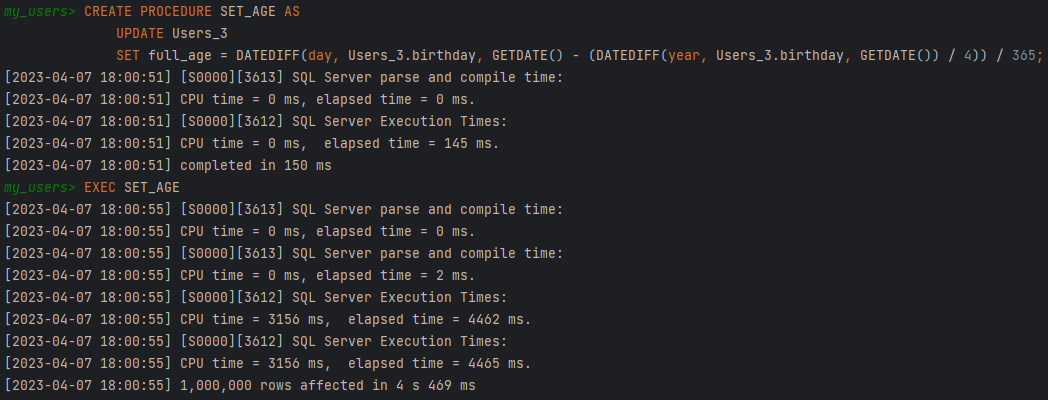
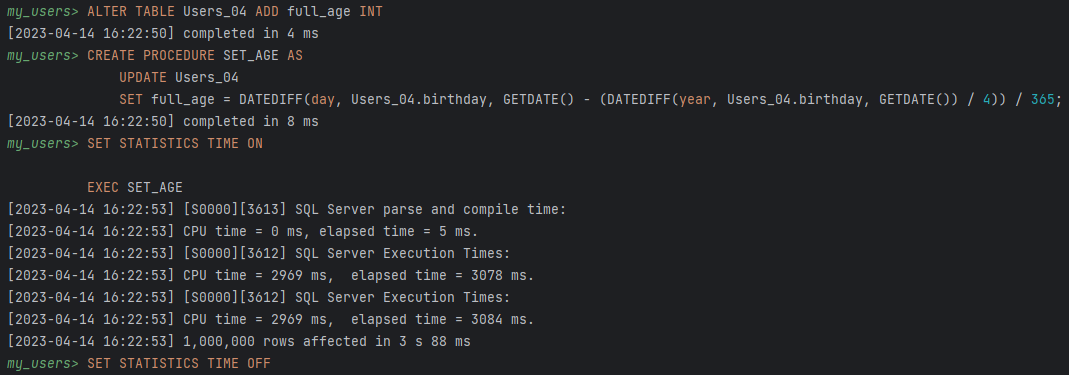
2 done

Changed region(s): [[0.0, 0.0, 1.0, 0.9973]]

diff --git a/README.md b/README.md
@@ -101,6 +101,7 @@ UPDATE Users_02
 SET Users_02.full_age = DATEDIFF(day, Users_02.birthday, GETDATE() - (DATEDIFF(year, Users_02.birthday, GETDATE()) / 4)) / 365;
 GO
 ```
+![Update full age](/img/2.1_update_time.png)
 
 ### Пункт б) Trigger
 ```SQL
@@ -122,6 +123,7 @@ GO
 SET STATISTICS TIME OFF
 GO
 ```
+![Trigger full age](/img/2.2_trigger_time.png)
 
 ### Пункт в) Procedure
 ```SQL
@@ -144,3 +146,4 @@ GO
 SET STATISTICS TIME OFF
 GO
 ```
+![Procedure full age](/img/2.3_procedure_time.png)
